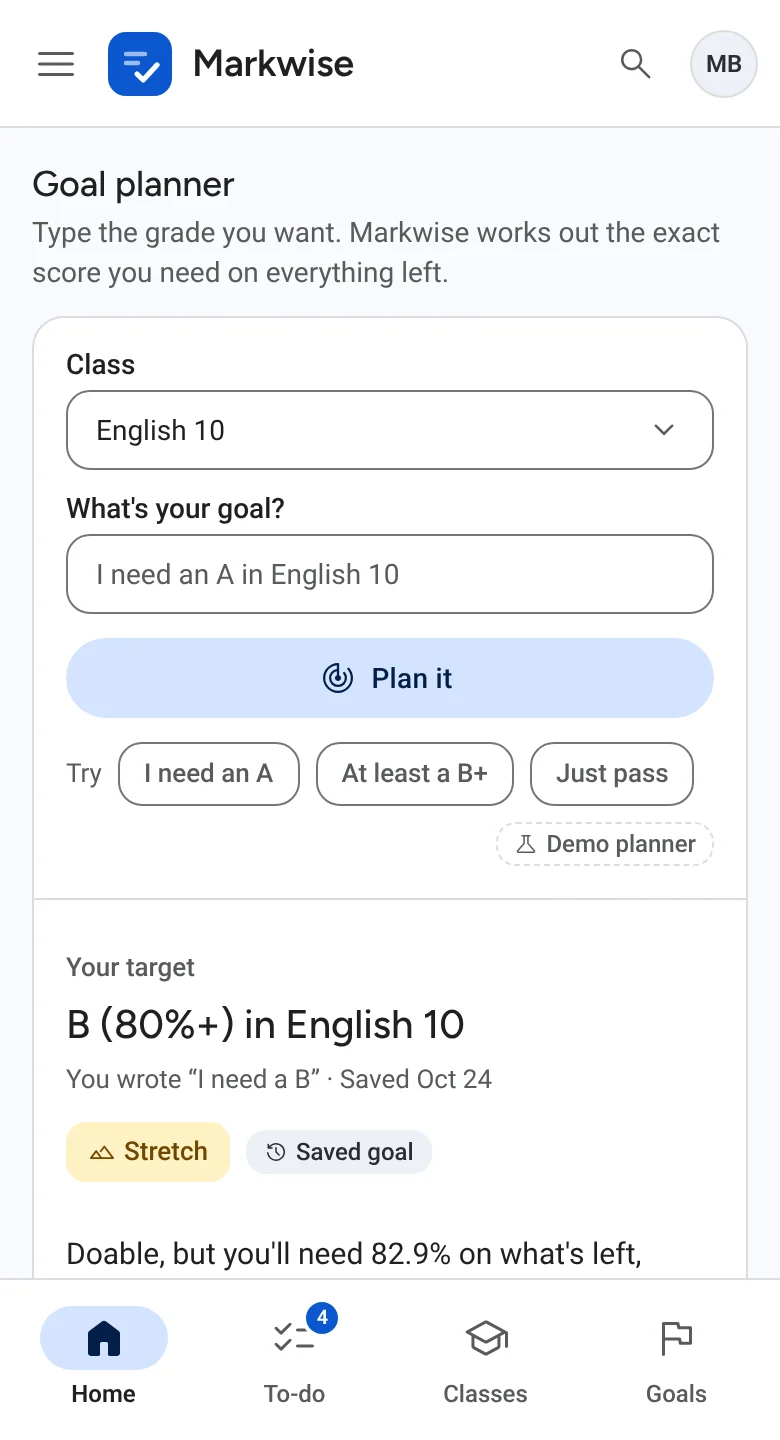
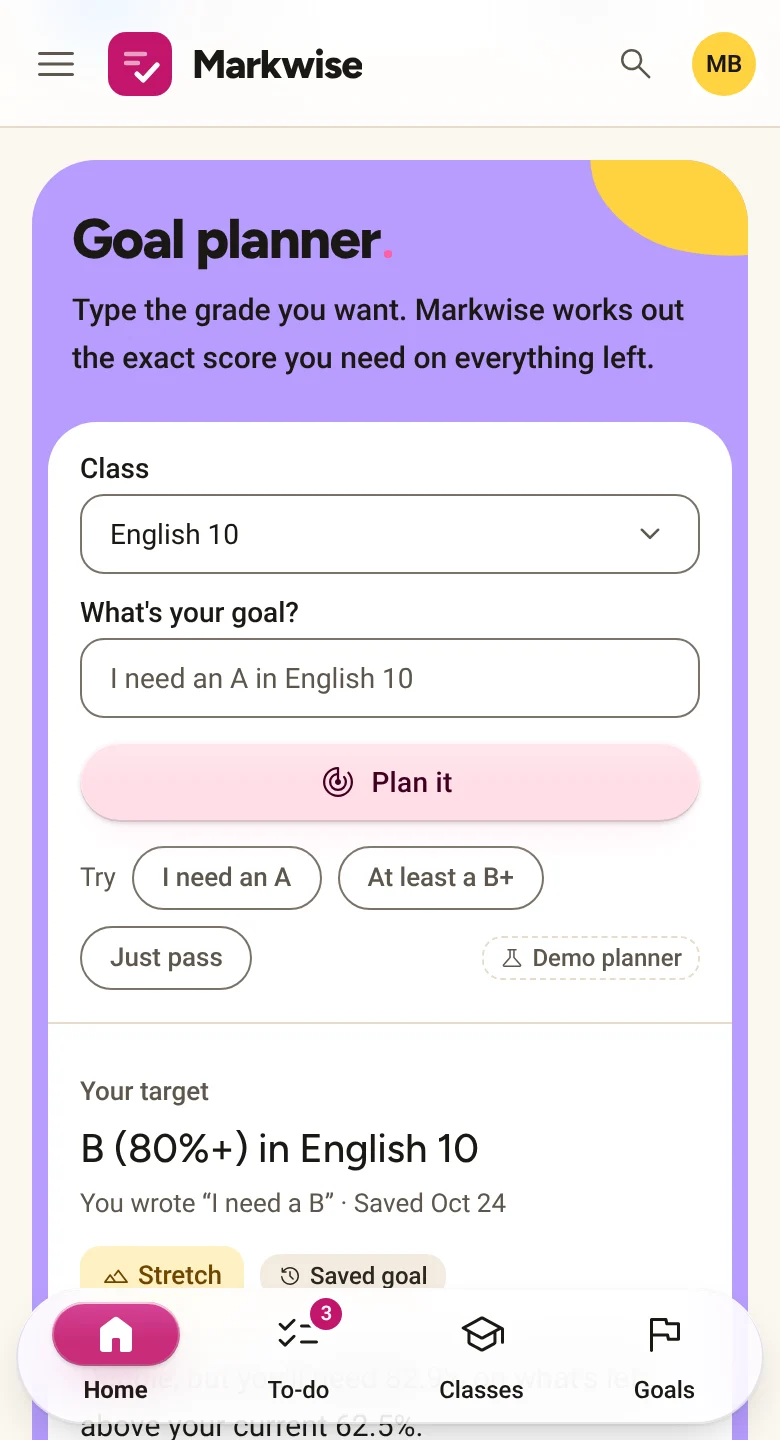
Bold look: new landing screenshots, docs, glass on bands
- Landing screenshots recaptured from a production build in demo mode, in
  the pink Bold look. The capture script now pins the default accent and
  look, and a test keeps those pins equal to DEFAULT_PREFERENCES.
- Glass on the yellow greeting bands frosts more, so Arrange doesn't turn
  muddy in dark mode.
- docs/DESIGN.md: the Bold direction (loud frame, calm content), tokens,
  Liquid Glass, the decor kit and the Look setting; README and architecture
  notes follow.

Claude-Session: https://claude.ai/code/session_019LWfFikdomv38iQKaphktm

diff --git a/src/components/student/home-view.tsx b/src/components/student/home-view.tsx
@@ -118,7 +118,7 @@ export function StudentHomeView({
           {/* The greeting band: big type on yellow, paint at the right edge (GreetingDecor). Arrange sits
               beside the date, so the greeting keeps the full width; from 34rem the text stops at 55% of
               the band, clear of the art. In the Calm look the band turns plain and the art goes. */}
-          <header className="@container relative isolate grid grid-cols-[minmax(0,1fr)_auto] items-center gap-x-4 overflow-hidden rounded-[2rem] bg-band-yellow px-5 pt-5 pb-7 text-band-foreground [--background:var(--band-yellow)] [--ring:var(--band-foreground)] sm:px-8 sm:pt-7 sm:pb-9 lg:px-10 lg:pb-11">
+          <header className="@container relative isolate grid grid-cols-[minmax(0,1fr)_auto] items-center gap-x-4 overflow-hidden rounded-[2rem] bg-band-yellow px-5 pt-5 pb-7 text-band-foreground [--background:var(--band-yellow)] [--glass-frost:92%] [--ring:var(--band-foreground)] sm:px-8 sm:pt-7 sm:pb-9 lg:px-10 lg:pb-11">
             <GreetingDecor />
             <p className="min-h-5 text-[0.875rem] font-semibold">{today}</p>
             {hasClasses ? <ArrangeButton className="col-start-2 row-start-1" /> : null}

diff --git a/tests/landing.test.ts b/tests/landing.test.ts
@@ -4,6 +4,7 @@ import { join } from "node:path";
 import { describe, it } from "node:test";
 
 import { SCREENSHOTS } from "../src/components/landing/screenshots";
+import { DEFAULT_PREFERENCES } from "@/lib/preferences/schema";
 
 // Guards for the landing page: real screenshots that exist in both themes and
 // stay small, plain copy without AI tropes, theme tokens instead of fixed
@@ -135,5 +136,13 @@ describe("capture script", () => {
     assert.match(script, /join\(ROOT, "public\/landing"\)/);
     assert.match(script, /join\(ROOT, "src\/components\/landing\/screenshots\.ts"\)/);
     assert.equal([...script.matchAll(/writeFile\(/g)].length, 2);
+  });
+
+  it("shoots the default look, so the screenshots match what a visitor sees", () => {
+    const pinned = (attribute: string) => script.match(new RegExp(`setAttribute\\("data-${attribute}", "([a-z]+)"\\)`))?.[1];
+    assert.equal(pinned("accent"), DEFAULT_PREFERENCES.accent);
+    assert.equal(pinned("text-size"), DEFAULT_PREFERENCES.textSize);
+    assert.equal(pinned("density"), DEFAULT_PREFERENCES.density);
+    assert.equal(pinned("look"), DEFAULT_PREFERENCES.look);
   });
 });

diff --git a/src/components/dashboard/greeting-band.tsx b/src/components/dashboard/greeting-band.tsx
@@ -60,7 +60,7 @@ export function GreetingBandFrame({
   return (
     <Tag
       className={cn(
-        "@container/greet relative isolate grid grid-cols-[minmax(0,1fr)_auto] items-center gap-x-4 gap-y-3 overflow-hidden rounded-[2rem] bg-band-yellow px-5 pt-5 pb-24 text-band-foreground [--background:var(--band-yellow)] [--ring:var(--band-foreground)]",
+        "@container/greet relative isolate grid grid-cols-[minmax(0,1fr)_auto] items-center gap-x-4 gap-y-3 overflow-hidden rounded-[2rem] bg-band-yellow px-5 pt-5 pb-24 text-band-foreground [--background:var(--band-yellow)] [--glass-frost:92%] [--ring:var(--band-foreground)]",
         // The bottom strip is for phones' decor: gone once the band is 36rem wide (main 39rem less
         // the page padding; the band can't query its own width), and in Calm.
         "sm:px-8 sm:pt-8 @min-[39rem]:pb-10 lg:px-12 lg:pt-11",

diff --git a/src/components/landing/screenshots.ts b/src/components/landing/screenshots.ts
@@ -26,7 +26,7 @@ export const SCREENSHOTS = {
     light: "/landing/first-pass-light.webp",
     dark: "/landing/first-pass-dark.webp",
     width: 950,
-    height: 1374,
+    height: 1366,
     cssWidth: 475,
     alt: "The grade panel in To review: a suggested score for each rubric criterion, each backed by a quote from the paper, with the score boxes ready to edit.",
   },
@@ -34,7 +34,7 @@ export const SCREENSHOTS = {
     light: "/landing/returned-light.webp",
     dark: "/landing/returned-dark.webp",
     width: 736,
-    height: 1226,
+    height: 1330,
     cssWidth: 368,
     alt: "A student's view of a returned quiz: the grade 14 out of 16, who approved it and when, and the teacher's private comment.",
   },

diff --git a/docs/DESIGN.md b/docs/DESIGN.md
@@ -1,43 +1,91 @@
 # Markwise design system
 
-Markwise follows the look and structure of **Google Classroom** (Material 3)
-so teachers and students feel at home on day one. We borrow the patterns, not
-the branding: no Google logos, product names, or proprietary fonts.
+Markwise follows the structure of **Google Classroom** (class cards, Stream /
+Classwork / People / Grades, To review, To-do) so teachers and students feel at
+home on day one. We borrow the patterns, not the branding: no Google logos,
+product names, or proprietary fonts.
+
+The look is **Bold**: bright and maximalist, after flat "paint and pattern"
+poster art. A warm cream canvas, big organic paint blobs in sunshine yellow,
+coral, mint, sky, pink and lilac bleeding off the edges, X-mark and dot grids,
+heavy display type ending in a pink period, full-width color bands, and
+**Liquid Glass** buttons and bars. The rule that keeps it usable: **loud frame,
+calm content.** Decoration lives at the edges (heroes, page headers, greeting
+bands, empty states, marketing sections); papers, rubrics, grades, tables and
+forms always sit on plain surfaces. The **Calm** look (Customize → Look) keeps
+the colors and glass but drops every shape and turns bands plain.
 
 ## Foundations
 
 | Token | Value | Use |
 | --- | --- | --- |
-| Canvas `bg-background` | `#f8fafd` | page background |
-| Surface `bg-card` | white | cards, app bar, dialogs |
-| Border `border-border` | `#dadce0` | 1px card and divider borders (cards have no resting shadow) |
-| Primary `bg-primary` / `text-primary` | `#0b57d0` | filled buttons, links, active tab indicator |
-| Secondary container `bg-primary-soft` | `#d3e3fd` on `#041e49` | active nav item, tonal buttons, selected chips |
-| Tonal surface `bg-secondary` | `#eef2f8` | segmented controls, info panels |
-| Text | `#1f1f1f`, muted `#444746` | |
+| Canvas `bg-background` | `#fbf7ef` (warm cream) | page background |
+| Surface `bg-card` | white | cards, dialogs |
+| Border `border-border` | `#e6dccb` | 1px card and divider borders |
+| Primary `bg-primary` / `text-primary` | `#c2166b` (pink, the default accent) | the one primary action, links, active nav |
+| Secondary container `bg-primary-soft` | `#ffd9e4` on `#3f0020` | tonal buttons, selected chips |
+| Tonal surface `bg-secondary` | `#f3ece0` | segmented controls, info panels, Calm bands |
+| Text | `#1b1814`, muted `#5d564c` | |
+| Pop colors `fill-pop-*` / `bg-pop-*` | yellow, coral, mint, sky, pink, lilac | decoration only; marks in `pop-ink`, text on a pop fill in `pop-ink-on` |
+| Bands `bg-band-*` | a pop color (Bold), `secondary` (Calm) | full-width sections and greeting bands; text in `text-band-foreground` |
 | Status | success / warning / danger (+ `-soft`) | status only: confidence, flags, missing, published |
 | Class colors | `--class-blue/green/purple/teal/orange/pink` | class banners and avatars only (`classTheme()` in `src/lib/ui/class-theme.ts`: `color` is the fill for white text, `accent` is for dots and text on ordinary surfaces) |
 | Paper `bg-paper` | white in both themes (slightly dimmed in dark) | student work: papers and photos are never inverted |
 
 These are the light values. `src/app/globals.css` documents every token, its
-dark value (Material 3 surfaces: canvas `#131314`, cards `#1e1f20`, menus and
-dialogs `#282a2c`, text `#e3e3e3`, primary `#a8c7fa`), the density utilities,
-and the `dark:` / `compact:` variants. `tests/theme.test.ts` checks every text
-pair at 4.5:1 and every ring and outline at 3:1, in light and dark, for all six
-accents.
+dark value (an ink canvas `#131116`, cards `#1d1a21`, menus and dialogs
+`#27232c`, text `#f1ece4`, primary `#ffb0cd`, pop colors toned down a step),
+the density utilities, and the `dark:` / `compact:` / `calm:` variants.
+`tests/theme.test.ts` checks every text pair at 4.5:1 and every ring and
+outline at 3:1, in light and dark, for all six accents, including ink on every
+pop color and band.
+
+## Liquid Glass
+
+Glass comes from three utilities in `globals.css`, never hand-rolled (and never
+`backdrop-blur` directly):
+
+- `liquid`: tinted glass. `--liquid` (default `--primary`) at 90% over a
+  blurred, saturated backdrop, a light rim, a specular sheen on the top half,
+  and a soft shadow in its own color. Text stays the token that pairs with the
+  tint, so contrast holds whatever is behind it.
+- `glass`: frosted card glass (`--glass-frost`, 78% light / 70% dark) for
+  outline buttons and floating panels. On a color band, raise the frost
+  (`[--glass-frost:92%]`) so the pill doesn't turn muddy.
+- `glass-bar`: the sticky app and site bars.
+
+Every `Button` variant uses them: `default` (accent glass), `destructive`,
+`tonal`, `secondary`, `outline` (frosted). Without `backdrop-filter`, with
+*prefers-reduced-transparency*, or with *prefers-contrast: more*, all three
+become solid fills; in forced colors they get a system border.
+
+## Decor
+
+`src/components/decor/`: `Blob` (six organic paint shapes, any pop tone, an
+optional slow float), `XGrid`, `DotGrid`, `Squiggle`, `Ring`, and `Period` (a
+heading's pink period: type on the canvas, a paint dot on a band). Decor is
+`aria-hidden`, ignores the pointer, never prints, stops moving under reduced
+motion, and disappears in Calm (`[data-decor]`). Place it inside a
+`relative isolate` parent, absolutely, with `-z-10`, clipped so phones never
+scroll sideways, and never under text. `PageHeader` takes a `decor` slot
+(`HeaderDecor` with two tones) that stays inside the header's box. On a band
+with focusable controls, set `[--ring:var(--band-foreground)]` and
+`[--background:var(--band-*)]` so focus rings stay visible.
 
 ## Personalization
 
 Every user can change how Markwise looks and how Home is arranged. Settings
 are saved per user (`UserPreferences`, validated by
 `src/lib/preferences/schema.ts`) and rendered on the server as `data-theme`,
-`data-accent`, `data-text-size`, and `data-density` on `<html>`, so there is no
-flash on load.
+`data-accent`, `data-text-size`, `data-density`, and `data-look` on `<html>`,
+so there is no flash on load.
 
 - **Theme:** System (default), Light, Dark.
-- **Accent:** Blue (default), Teal, Green, Orange, Pink, Slate. Curated, so
-  contrast always holds; no free color picker. Status and class colors never
-  change with the accent.
+- **Accent:** Pink (default), Blue, Teal, Green, Orange, Slate. Bright but
+  curated, so contrast always holds; no free color picker. Status and class
+  colors never change with the accent.
+- **Look:** Bold (default: shapes, patterns, color bands) or Calm (the same
+  colors on plain backgrounds).
 - **Text size:** 87.5%, 100%, 112.5%, 125% of the root font size. All text is
   in `rem`.
 - **Density:** Comfortable or Compact. Compact tightens list, table, and
@@ -57,11 +105,13 @@ flash on load.
   2.1.4); the arrow keys and buttons always work.
 
 - **Type:** Roboto for text. Figtree (an open stand-in for Google Sans) for
-  headings: `h1`–`h3` and `.font-display` use it automatically. Page titles are
-  26–28px medium; card titles 16px semibold; body 14–15px.
-- **Shape:** cards `rounded-xl` (12px), large containers and banners
-  `rounded-2xl` (16px), dialogs 28px, buttons and nav items fully rounded
-  (pills), inputs 8px.
+  headings: `h1`–`h3` and `.font-display` use it automatically. Big headings
+  use the display utilities (Figtree 800, tight tracking, rem-based clamp):
+  `display-hero` (landing heroes), `display-section` (landing sections),
+  `display-title` (app page titles, with a pink `Period`). Card titles 16px
+  semibold; body 14–15px.
+- **Shape:** cards and class cards `rounded-3xl`, bands `rounded-[2rem]`,
+  dialogs 28px, buttons and nav items fully rounded (glass pills), inputs 8px.
 - **Elevation:** resting cards are flat with a border. Use `hover:shadow-hover`
   on clickable cards and `shadow-raised` for menus and dialogs.
 - **Spacing:** 8pt rhythm (Tailwind 2/4/6/8/12/16). Content max width `max-w-6xl`.
@@ -72,8 +122,8 @@ flash on load.
   main content" link.
 - **Contrast:** every class color carries white text at 4.5:1 or better
   (orange is `#a35200`, teal `#00707a`; keep `globals.css` and
-  `class-theme.ts` in sync). Banner art sits on the right behind a class-color
-  scrim, so text never runs over line art.
+  `class-theme.ts` in sync). Banner line art and paint stay in a right-hand
+  box, clear of the class name, so text never runs over art.
 - **Layout:** `<main>` is a container (`@container`), so page grids switch on
   the content width (`@3xl`, `@4xl`) rather than the viewport, and the open
   drawer never squeezes a two-column layout.
@@ -83,10 +133,11 @@ flash on load.
 
 ## Components
 
-- `Button` variants: `default` (filled, the one primary action per area),
-  `tonal` (secondary emphasis), `outline`, `text` (primary-colored text
-  button), `ghost` (neutral icon buttons), `destructive`. Sizes: default 40px,
-  `sm` 32px, `lg` 48px, `icon` 40px.
+- `Button` variants (Liquid Glass): `default` (accent glass, the one primary
+  action per area), `tonal` (secondary emphasis), `outline` (frosted),
+  `secondary`, `text` (primary-colored text button), `ghost` (neutral icon
+  buttons), `destructive`. Sizes: default 40px, `sm` 32px, `lg` 48px, `icon`
+  40px.
 - `src/components/classroom/`: `ClassBanner` (Stream header), `ClassCardBanner`
   (Home class cards), `ClassAvatar` (colored initials circle), `PageTabs`
   (underline link tabs), `ClassTabBar` + `TeacherClassTabs` / `StudentClassTabs`.

diff --git a/README.md b/README.md
@@ -13,9 +13,11 @@ teacher approves it.
 
 The interface follows Google Classroom's layout and vocabulary (class cards,
 Stream / Classwork / People / Grades tabs, a To review grading tool, a student
-To-do list), so teachers and students know their way around on day one.
+To-do list), so teachers and students know their way around on day one. The
+look is bright and bold: paint-blob shapes, patterns and heavy type around the
+edges, Liquid Glass buttons, and plain surfaces wherever there is work to read.
 Everyone can make it their own: light, dark, or follow the device; six accent
-colors; four text sizes; a compact density; and Home pages whose sections and
+colors; a Bold or Calm look; four text sizes; a compact density; and Home pages whose sections and
 class cards can be rearranged, moved between columns, or hidden. Search
 (Ctrl/⌘ K) jumps to any class, assignment, or student. Icons are Google's
 Material Symbols. See [`docs/DESIGN.md`](docs/DESIGN.md) for the design system
@@ -246,7 +248,8 @@ The click path for judges. Times are a guide.
 
 **More to show:**
 - **Make it yours.** Open the account menu → **Customize**: switch to **Dark**,
-  pick an accent, try **Larger** text or **Compact** density. Changes apply at
+  pick an accent, switch the **Look** to **Calm**, try **Larger** text or
+  **Compact** density. Changes apply at
   once and are saved to your account. Then click **Arrange** on Home: drag a section by its handle (or use the move buttons, which
   also work from the keyboard), move it to the side column, hide what you don't
   need, and press **Done**. Class cards can be reordered the same way, and the
@@ -365,10 +368,11 @@ src/
     api/                 grade (camera), answer-key, conference-brief, goal-planner,
                          essay first pass, page photos, gradebook CSV export, search
   components/
-    ui/                  UI primitives (Material 3 style)
+    ui/                  UI primitives (Liquid Glass buttons)
     icons/               Material Symbols Rounded, generated by scripts/build-icons.mjs
     app-shell/           top app bar, drawer / rail / bottom bar, account menu, engine status
-    customize/           Customize panel (theme, accent, text size, density, layout)
+    customize/           Customize panel (theme, accent, look, text size, density, layout)
+    decor/               the Bold look's paint blobs, patterns and heading period
     layout-editor/       arrange Home sections and class cards (dnd-kit + move buttons)
     command-palette/     Ctrl/⌘ K search
     classroom/           class banners, class avatars, class tab bar, underline tabs

diff --git a/docs/ARCHITECTURE.md b/docs/ARCHITECTURE.md
@@ -162,7 +162,7 @@ draft edits). The batch UI calls this endpoint sequentially, one paper at a time
 ## Preferences
 
 `UserPreferences` stores one validated JSON document per user
-(`src/lib/preferences/schema.ts`): theme, accent, text size, density, the Home
+(`src/lib/preferences/schema.ts`): theme, accent, look, text size, density, the Home
 section layout per role (`main` / `side` columns plus `hidden`), class card
 order, and the To review paper side. The server actions in
 `src/lib/preferences/actions.ts` (`updatePreferences`, `resetSectionLayout`,
